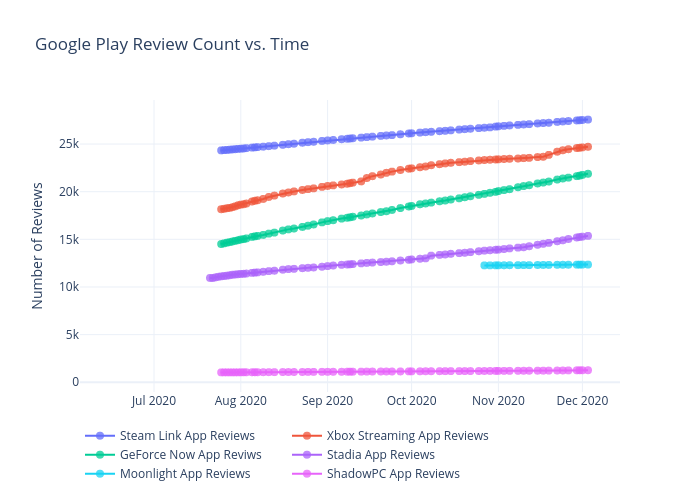
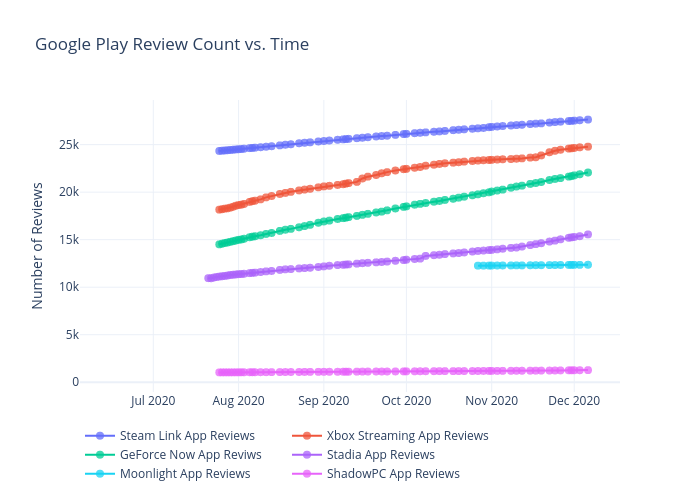
Add files via upload
dec 6 upgrade

diff --git a/googleplay/figure.js b/googleplay/figure.js
@@ -173,14 +173,16 @@ var figure = {
                 "27479",
                 "27499",
                 "27524",
-                "27567"
+                "27567",
+                "27632"
             ],
             "marker": {
                 "size": 8,
                 "opacity": 0.75
             },
             "stackgroup": null,
-            "connectgaps": true
+            "connectgaps": true,
+            "hovertemplate": "%{x}, %{y}"
         },
         {
             "meta": {
@@ -355,14 +357,16 @@ var figure = {
                 "24582",
                 "24610",
                 "24650",
-                "24717"
+                "24717",
+                "24786"
             ],
             "marker": {
                 "size": 8,
                 "opacity": 0.75
             },
             "stackgroup": null,
-            "connectgaps": true
+            "connectgaps": true,
+            "hovertemplate": "%{x}, %{y}"
         },
         {
             "meta": {
@@ -537,14 +541,16 @@ var figure = {
                 "21632",
                 "21681",
                 "21764",
-                "21882"
+                "21882",
+                "22065"
             ],
             "marker": {
                 "size": 8,
                 "opacity": 0.75
             },
             "stackgroup": null,
-            "connectgaps": true
+            "connectgaps": true,
+            "hovertemplate": "%{x}, %{y}"
         },
         {
             "meta": {
@@ -719,14 +725,16 @@ var figure = {
                 "15195",
                 "15244",
                 "15284",
-                "15366"
+                "15366",
+                "15553"
             ],
             "marker": {
                 "size": 8,
                 "opacity": 0.75
             },
             "stackgroup": null,
-            "connectgaps": true
+            "connectgaps": true,
+            "hovertemplate": "%{x}, %{y}"
         },
         {
             "meta": {
@@ -901,14 +909,16 @@ var figure = {
                 "12344",
                 "12345",
                 "12347",
-                "12350"
+                "12350",
+                "12361"
             ],
             "marker": {
                 "size": 8,
                 "opacity": 0.75
             },
             "stackgroup": null,
-            "connectgaps": true
+            "connectgaps": true,
+            "hovertemplate": "%{x}, %{y}"
         },
         {
             "meta": {
@@ -1083,14 +1093,16 @@ var figure = {
                 "1255",
                 "1257",
                 "1260",
-                "1264"
+                "1264",
+                "1277"
             ],
             "marker": {
                 "size": 8,
                 "opacity": 0.75
             },
             "stackgroup": null,
-            "connectgaps": true
+            "connectgaps": true,
+            "hovertemplate": "%{x}, %{y}"
         }
     ],
     "layout": {
@@ -1100,8 +1112,8 @@ var figure = {
         "xaxis": {
             "type": "date",
             "range": [
-                "2020-06-05 08:18:51.9421",
-                "2020-12-13 15:41:08.0579"
+                "2020-06-05 03:48:08.3882",
+                "2020-12-16 20:11:51.6118"
             ],
             "title": {
                 "text": ""
@@ -1111,8 +1123,8 @@ var figure = {
         "yaxis": {
             "type": "linear",
             "range": [
-                -801.9712274635715,
-                29404.97122746357
+                -1013.8079008520522,
+                29681.80790085205
             ],
             "title": {
                 "text": "Number of Reviews"
